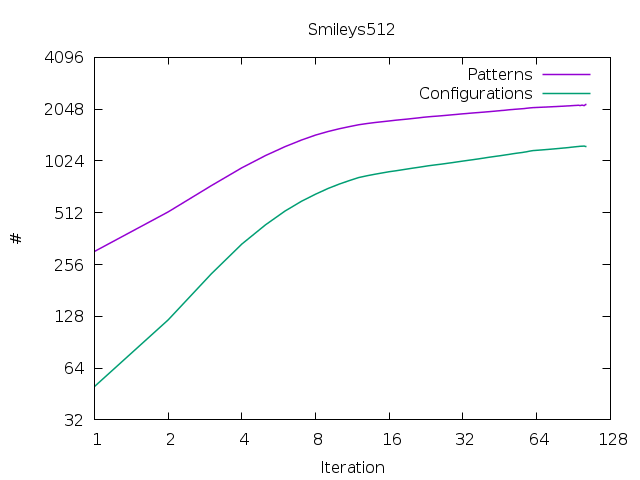
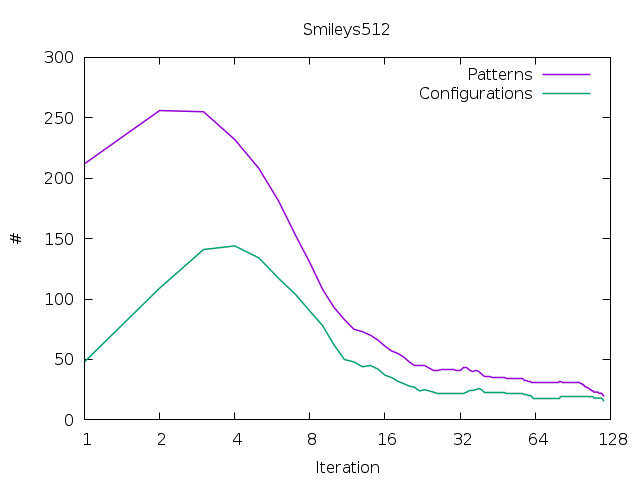
Fixed the test method for the pattern-configuration plots in the journal, updated plots accordingly

diff --git a/src/vouw/encoder.cpp b/src/vouw/encoder.cpp
@@ -19,6 +19,7 @@
 #include <iomanip>
 #include <cassert>
 #include <limits>
+#include <set>
 
 /* Chrono library used to measure execution time of various functions */
 #include <chrono>
@@ -268,12 +269,22 @@ bool Encoder::encodeStep() {
     TimeVarT t4 = timeNow();
     std::cerr << "Merged " << totalMerge << " patterns. Elapsed time: " << duration( t4-t3 ) << " ms."<< std::endl;
 
-    /*printf( "Model: %d pattern in %d configurations.\n",
-            m_ct->size() - m_mat->distribution().uniqueElements() + (int)(m_tabuCount != 0),
-            m_configvec.size() - 1 ); // Not counting singletons*/
-    printf( "%d, %d\n",
-            m_ct->size() - m_mat->distribution().uniqueElements() + (int)(m_tabuCount != 0),
-            m_configvec.size() - 1 ); // Not counting singletons
+    
+    /* This part is for statistics only
+     * It outputs the number of patterns vs the number of configurations */
+    int patterns =0, configs =0;
+    std::set<ConfigIDT> cfgset;
+    for( auto && p : *m_ct ) {
+        if( p->isActive() == false || p->size() == 1 || p->isTabu() ) continue;
+        if( cfgset.count( p->configuration() ) == 0 ) {
+            cfgset.insert( cfgset.end(), p->configuration() );
+            configs++;
+        }
+        patterns++;
+    }
+    printf( "%d, %d\n", patterns, configs );
+    /* End statistical part */
+
 
     if( totalGain <= 0.0 && m_iteration != 1 ) {
         std::cout << "No compression gain." << std::endl;
@@ -566,8 +577,12 @@ Encoder::addPattern( Pattern* p ) {
     p->setLabel( m_lastLabel++ );
     m_ct->push_back( p );
     Configuration c( *p );
-    if( std::find( m_configvec.begin(), m_configvec.end(), c ) == m_configvec.end() ) {
+    auto it =std::find( m_configvec.begin(), m_configvec.end(), c ); 
+    if( it == m_configvec.end() ) {
+        p->setConfiguration( m_configvec.size() ); // Index of the new element
         m_configvec.push_back( c );
+    } else {
+        p->setConfiguration( it - m_configvec.begin() );
     }
 }
 

diff --git a/include/vouw/pattern.h b/include/vouw/pattern.h
@@ -8,6 +8,7 @@
 #pragma once
 #include "vouw.h"
 #include "matrix.h"
+#include "configuration.h"
 #include <vector>
 
 VOUW_NAMESPACE_BEGIN
@@ -140,6 +141,11 @@ class Pattern {
           * using the union constructors. */
         const CompositionT& composition() const { return m_composition; }
 
+        /** Set the user-defined configuration-id for this pattern*/
+        void setConfiguration( const ConfigIDT& id ) { m_config =id; }
+        /** Returns the used-defined configuration-id for this pattern */
+        ConfigIDT configuration() const { return m_config; }
+
         void debugPrint() const;
 
     private:
@@ -157,6 +163,7 @@ class Pattern {
         bool m_tabu;
         CompositionT m_composition;
         PeripheryT m_periphery[2];
+        ConfigIDT m_config;
 };
 
 inline bool pattern_is_active( const Pattern* p ) { return p->isActive(); }

diff --git a/include/vouw/configuration.h b/include/vouw/configuration.h
@@ -8,12 +8,14 @@
 #pragma once
 
 #include "vouw.h"
-#include "pattern.h"
+//#include "pattern.h"
 
 #include <vector>
 #include <cinttypes>
 
 VOUW_NAMESPACE_BEGIN
+
+class Pattern;
 
 class Configuration {
     public:

diff --git a/src/vouw/configuration.cpp b/src/vouw/configuration.cpp
@@ -6,6 +6,7 @@
  */
 
 #include <vouw/configuration.h>
+#include <vouw/pattern.h>
 
 VOUW_NAMESPACE_BEGIN
 
